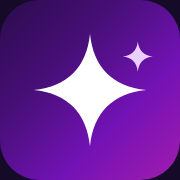
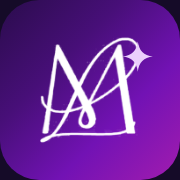
Studio: fotos e monograma originais nos lugares do Manual e do Guia
- Fotos extraídas do Manual original: capa (Manoella), boas-vindas,
  2 de alongamento, 2 de banho de gel e o mapa da localização
- Fotos de serviço com o recorte em folha do original, no site e no PDF
- Monograma ML do logo original no quadro da marca, nos PDFs e nos ícones
- PDFs resolvem imagens de public/ (navegador e testes); JPG no precache

Claude-Session: https://claude.ai/code/session_017yUxHj6sHtnoANT1YFCpkN

Changed region(s): [[0.1944, 0.1944, 0.8056, 0.8056]]

diff --git a/studio/src/pdf/base.tsx b/studio/src/pdf/base.tsx
@@ -24,6 +24,12 @@ const branco = bss.sobreMarca;
 const lilas = bss.sobreMarcaSuave;
 
 const A5: [number, number] = [419.53, 595.28];
+
+/** Imagens de public/: no navegador viram URL absoluta; nos testes, caminho no disco. */
+let resolver = (src: string) => src;
+export function definirOrigemImagens(fn: (src: string) => string) { resolver = fn; }
+
+type Cantos = { tl?: number; tr?: number; br?: number; bl?: number };
 const M = 34;
 
 const s = StyleSheet.create({
@@ -71,14 +77,16 @@ function Logo({ studio, claro, grande }: { studio: Studio; claro?: boolean; gran
     <View style={{ flexDirection: "row", alignItems: "center", gap: 10 }}>
       <View style={{ width: tam, height: tam, borderRadius: 12, overflow: "hidden", alignItems: "center", justifyContent: "center", borderWidth: 1, borderColor: lilas }}>
         <Degrade w={tam} h={tam} />
-        <Text style={{ fontFamily: bss.fontes.titulo, fontWeight: 800, fontSize: tam * 0.36, color: branco, letterSpacing: -0.5 }}>{studio.marca.monograma}</Text>
+        {studio.marca.simbolo
+          ? <Image src={resolver(studio.marca.simbolo.src)} style={{ width: tam * 0.72, height: tam * 0.72 }} />
+          : <Text style={{ fontFamily: bss.fontes.titulo, fontWeight: 800, fontSize: tam * 0.36, color: branco, letterSpacing: -0.5 }}>{studio.marca.monograma}</Text>}
       </View>
       <Text style={{ fontFamily: bss.fontes.assinatura, fontSize: grande ? 34 : 26, color: claro ? branco : c.primariaTexto }}>{studio.marca.nome.replace(/^Studio /, "")}</Text>
     </View>
   );
 }
 
-function FotoPdf({ src, placeholder, w, h }: { src: string; placeholder?: boolean; w: number; h: number }) {
+function FotoPdf({ src, placeholder, w, h, cantos }: { src: string; placeholder?: boolean; w: number; h: number; cantos?: Cantos }) {
   // SVG/placeholder não entram no PDF como imagem: vira um quadro marcado "Foto provisória".
   if (placeholder || src.endsWith(".svg"))
     return (
@@ -87,11 +95,24 @@ function FotoPdf({ src, placeholder, w, h }: { src: string; placeholder?: boolea
         <Text style={{ fontSize: 8, color: branco, opacity: 0.85 }}>Foto provisória</Text>
       </View>
     );
-  return <Image src={src} style={{ width: w, height: h, borderRadius: 12, objectFit: "cover" }} />;
+  const r = cantos
+    ? { borderTopLeftRadius: cantos.tl ?? 6, borderTopRightRadius: cantos.tr ?? 6, borderBottomRightRadius: cantos.br ?? 6, borderBottomLeftRadius: cantos.bl ?? 6 }
+    : { borderRadius: 12 };
+  return (
+    <View style={{ width: w, height: h, overflow: "hidden", ...r }}>
+      <Image src={resolver(src)} style={{ width: w, height: h, objectFit: "cover" }} />
+    </View>
+  );
 }
 
-function Mapa({ w }: { w: number }) {
+function Mapa({ w, src }: { w: number; src?: string }) {
   const r = w / 2;
+  if (src)
+    return (
+      <View style={{ width: w, height: w, borderRadius: r, borderWidth: 3, borderColor: lilas, overflow: "hidden" }}>
+        <Image src={resolver(src)} style={{ width: w - 6, height: w - 6, objectFit: "cover" }} />
+      </View>
+    );
   return (
     <Svg width={w} height={w}>
       <Circle cx={r} cy={r} r={r - 3} fill={branco} fillOpacity={0.13} stroke={branco} strokeOpacity={0.4} strokeWidth={3} />
@@ -140,7 +161,10 @@ function Blocos({ blocos, studio, sobreMarca }: { blocos: Bloco[]; studio: Studi
           );
           case "fotos": return (
             <View key={i} style={{ flexDirection: "row", gap: 10, marginTop: 6 }}>
-              {b.fotos.map((f) => <FotoPdf key={f.src} {...f} w={(A5[0] - 2 * M - 32 - 10) / 2} h={150} />)}
+              {b.fotos.map((f, n) => {
+                const w = (A5[0] - 2 * M - 32 - 10) / 2, raio = w * 0.3;
+                return <FotoPdf key={f.src} {...f} w={w} h={w * 6 / 7} cantos={n % 2 ? { tr: raio, bl: raio } : { tl: raio, br: raio }} />;
+              })}
             </View>
           );
           case "assinatura": return (
@@ -175,7 +199,7 @@ function Blocos({ blocos, studio, sobreMarca }: { blocos: Bloco[]; studio: Studi
             return (
               <View key={i} style={{ borderRadius: 14, overflow: "hidden", padding: 20, alignItems: "center", marginTop: 4 }}>
                 <Degrade w={w} h={330} raio={14} />
-                <Mapa w={150} />
+                <Mapa w={150} src={b.mapa?.src} />
                 <Text style={{ color: branco, fontWeight: 600, fontSize: 13, marginTop: 14, textAlign: "center" }}>
                   {`${e.linha.replace(", N ", " ")}${e.complemento ? `, ${e.complemento}` : ""} – ${e.bairro} – ${e.uf}`}
                 </Text>
@@ -219,6 +243,7 @@ function PaginaSecao({ secao, n, total, studio, doc }: { secao: SecaoDocumento; 
       <Text style={s.marcador}>{n} de {total}</Text>
       <Text style={s.titulo}>{secao.titulo}</Text>
       {secao.subtitulo && <Text style={s.subtitulo}>{secao.subtitulo}</Text>}
+      {secao.imagem && <View style={{ marginTop: 12 }}><FotoPdf {...secao.imagem} w={A5[0] - 2 * M} h={150} /></View>}
       <View style={s.cartao}><Blocos blocos={secao.blocos} studio={studio} /></View>
       {rodape}
     </Page>

diff --git a/studio/src/data/studio.ts b/studio/src/data/studio.ts
@@ -13,11 +13,11 @@ export const studio: Studio = {
     nome: "Studio Manoella Lopes",
     subtitulo: "Nail Designer | Especialista em Unhas",
     cidade: "Olaria – RJ",
-    // TODO: enviar o arquivo de logo (SVG) para public/brand/ e preencher aqui.
+    // Logo completo (nome desenhado) ainda não veio em arquivo: o nome segue na fonte de assinatura.
     logo: undefined,
     monograma: "ML",
-    // TODO: foto real da profissional.
-    foto: { src: "/img/placeholder-profissional.svg", alt: "Foto da profissional Manoella Lopes (provisória)", placeholder: true },
+    simbolo: { src: "/brand/monograma.png", alt: "Monograma ML do Studio Manoella Lopes" },
+    foto: { src: "/img/manoella-lopes.jpg", alt: "Manoella Lopes, nail designer" },
     // TODO: confirmar o texto e o link de créditos do rodapé.
     creditos: { texto: "Feito com BSS" },
   },
@@ -64,8 +64,7 @@ export const studio: Studio = {
     textoApoio: "Selecione abaixo qual serviço deseja realizar o agendamento",
     textoProfissional: "Selecione o profissional desejado para o agendamento",
     profissionais: [
-      // TODO: foto real da profissional para o avatar.
-      { id: PROFISSIONAL, nome: "Manoella Lopes" },
+      { id: PROFISSIONAL, nome: "Manoella Lopes", foto: { src: "/img/manoella-lopes.jpg", alt: "Manoella Lopes" } },
     ],
     servicos: [
       { id: "aplicacao", nome: "Aplicação", duracaoMin: 120, precoCentavos: 14000, profissionais: [PROFISSIONAL] },
@@ -103,11 +102,12 @@ export const studio: Studio = {
     secoes: [
       {
         id: "capa", estilo: "capa", titulo: "Manual de Agendamento", subtitulo: "Studio Manoella Lopes",
-        imagem: { src: "/img/placeholder-profissional.svg", alt: "Foto da profissional (provisória)", placeholder: true },
+        imagem: { src: "/img/manoella-lopes-capa.jpg", alt: "Manoella Lopes, nail designer do studio" },
         blocos: [{ tipo: "logo" }],
       },
       {
         id: "boas-vindas", titulo: "Boas-vindas",
+        imagem: { src: "/img/boas-vindas.jpg", alt: "Mãos aplicando óleo de cutícula com conta-gotas" },
         blocos: [
           { tipo: "paragrafo", texto: "Olá, eu sou a Manoella Lopes, Nail Designer Especialista, e preparei este manual de agendamento com muito carinho para facilitar a sua experiência comigo." },
           { tipo: "paragrafo", texto: "Aqui você vai encontrar todas as informações necessárias para agendar seu horário de forma prática, além de algumas orientações importantes para que o nosso atendimento seja ainda mais especial." },
@@ -126,10 +126,9 @@ export const studio: Studio = {
             "Pode incluir outros serviços como decoração (adicional)",
             "Manutenção até 30 dias",
           ] },
-          // TODO: 2 fotos reais do alongamento.
           { tipo: "fotos", fotos: [
-            { src: "/img/placeholder-unhas-1.svg", alt: "Alongamento de unhas — foto 1 (provisória)", placeholder: true },
-            { src: "/img/placeholder-unhas-2.svg", alt: "Alongamento de unhas — foto 2 (provisória)", placeholder: true },
+            { src: "/img/alongamento-1.jpg", alt: "Alongamento amendoado nude com flores brancas" },
+            { src: "/img/alongamento-2.jpg", alt: "Alongamento amendoado com francesinha branca" },
           ] },
         ],
       },
@@ -143,10 +142,9 @@ export const studio: Studio = {
             "Pode incluir decoração (adicional)",
             "Manutenção de 20 à 30 dias",
           ] },
-          // TODO: 2 fotos reais do banho de gel.
           { tipo: "fotos", fotos: [
-            { src: "/img/placeholder-unhas-3.svg", alt: "Banho de gel — foto 1 (provisória)", placeholder: true },
-            { src: "/img/placeholder-unhas-4.svg", alt: "Banho de gel — foto 2 (provisória)", placeholder: true },
+            { src: "/img/banho-de-gel-1.jpg", alt: "Banho de gel com francesinha cintilante" },
+            { src: "/img/banho-de-gel-2.jpg", alt: "Banho de gel vermelho" },
           ] },
         ],
       },
@@ -170,7 +168,7 @@ export const studio: Studio = {
           { tipo: "destaque", texto: "Para preservar a saúde da unha natural e evitar quebras/descolamentos do alongamento, é extremamente importante não passar do prazo de manutenção." },
         ],
       },
-      { id: "localizacao", titulo: "Localização", blocos: [{ tipo: "localizacao" }] },
+      { id: "localizacao", titulo: "Localização", blocos: [{ tipo: "localizacao", mapa: { src: "/img/mapa.jpg", alt: "Mapa da região da Rua Carlina, em Olaria" } }] },
     ],
   },
   guia: {

diff --git a/studio/src/components/ui/MapCard.tsx b/studio/src/components/ui/MapCard.tsx
@@ -1,15 +1,20 @@
 import { Icon } from "./Icon";
 import { ButtonA } from "./Button";
+import type { Imagem } from "@/data/types";
 
 /**
- * Localização: mapa ilustrado circular com pino (sem serviço de mapas embutido — o botão abre
+ * Localização: recorte do mapa (ou mapa ilustrado) circular com pino (sem serviço de mapas embutido — o botão abre
  * o Google Maps com o endereço). Fundo no degradê forte da marca.
  */
-export function MapCard({ endereco, complemento, referencia, consulta }: { endereco: string; complemento?: string; referencia?: string; consulta: string }) {
+export function MapCard({ endereco, complemento, referencia, consulta, mapa }: { endereco: string; complemento?: string; referencia?: string; consulta: string; mapa?: Imagem }) {
   const url = `https://www.google.com/maps/search/?api=1&query=${encodeURIComponent(consulta)}`;
   return (
     <div className="bg-marca relative overflow-hidden rounded-card p-5 text-sobre-marca shadow-card">
       <div className="flex flex-col items-center gap-4 text-center">
+        {mapa ? (
+          <img src={mapa.src} alt={mapa.alt} loading="lazy" decoding="async" width={160} height={160}
+            className="h-40 w-40 rounded-full object-cover ring-4 ring-sobre-marca/25 shadow-card" />
+        ) : (
         <span aria-hidden className="relative grid h-40 w-40 place-items-center overflow-hidden rounded-full bg-sobre-marca/10 ring-4 ring-sobre-marca/25">
           {/* ruas estilizadas */}
           <svg viewBox="0 0 160 160" className="absolute inset-0 h-full w-full text-sobre-marca/25" fill="none" stroke="currentColor" strokeWidth="6" strokeLinecap="round">
@@ -17,6 +22,7 @@ export function MapCard({ endereco, complemento, referencia, consulta }: { ender
           </svg>
           <Icon name="pino" className="relative h-14 w-14 -translate-y-2 text-sobre-marca drop-shadow-[0_6px_10px_rgb(0_0_0/0.35)]" />
         </span>
+        )}
         <div>
           <p className="text-md font-semibold">{endereco}{complemento ? `, ${complemento}` : ""}</p>
           {referencia && <p className="mt-1 text-sm text-sobre-marca-suave">({referencia})</p>}

diff --git a/studio/src/components/documento/Blocos.tsx b/studio/src/components/documento/Blocos.tsx
@@ -2,6 +2,7 @@ import { studio } from "@/data/studio";
 import type { Bloco } from "@/data/types";
 import { linkWhatsApp } from "@/services/booking";
 import { Foto, Logo } from "@/components/ui/Brand";
+import { cn } from "@/lib/cn";
 import { ButtonA } from "@/components/ui/Button";
 import { Icon } from "@/components/ui/Icon";
 import { MapCard } from "@/components/ui/MapCard";
@@ -65,7 +66,8 @@ function BlocoView({ b, sobreMarca }: { b: Bloco; sobreMarca?: boolean }) {
     case "fotos":
       return (
         <div className="grid grid-cols-2 gap-3">
-          {b.fotos.map((f) => <Foto key={f.src} {...f} className="aspect-[4/5] rounded-2xl" />)}
+          {/* Recorte em "folha" como no Manual original: cantos opostos bem arredondados, alternando. */}
+          {b.fotos.map((f, n) => <Foto key={f.src} {...f} className={cn("aspect-[7/6] rounded-lg ring-1 ring-borda", n % 2 ? "rounded-tr-[32%_37%] rounded-bl-[32%_37%]" : "rounded-tl-[32%_37%] rounded-br-[32%_37%]")} />)}
         </div>
       );
     case "assinatura":
@@ -79,7 +81,7 @@ function BlocoView({ b, sobreMarca }: { b: Bloco; sobreMarca?: boolean }) {
     case "localizacao": {
       const e = contato.endereco;
       return <MapCard endereco={`${e.linha.replace(", N ", " ")} – ${e.bairro} – ${e.uf}`} complemento={e.complemento} referencia={e.referencia}
-        consulta={`${e.linha}, ${e.bairro}, ${e.cidade} - ${e.uf}`} />;
+        consulta={`${e.linha}, ${e.bairro}, ${e.cidade} - ${e.uf}`} mapa={b.mapa} />;
     }
     case "logo":
       return <Logo tamanho="lg" claro={sobreMarca} className="mt-2" />;

diff --git a/studio/src/components/ui/Brand.tsx b/studio/src/components/ui/Brand.tsx
@@ -3,13 +3,15 @@ import { cn } from "@/lib/cn";
 
 /** Logo: arquivo do studio, se houver; senão monograma + nome na fonte de assinatura do BSS. */
 export function Logo({ tamanho = "md", claro, className }: { tamanho?: "sm" | "md" | "lg"; claro?: boolean; className?: string }) {
-  const { logo, nome, monograma } = studio.marca;
+  const { logo, nome, monograma, simbolo } = studio.marca;
   if (logo) return <img src={logo.src} alt={logo.alt} className={cn(tamanho === "lg" ? "h-24" : tamanho === "md" ? "h-12" : "h-9", "w-auto", className)} />;
   const box = tamanho === "lg" ? "h-16 w-16 text-[22px] sm:h-20 sm:w-20 sm:text-[28px]" : tamanho === "md" ? "h-12 w-12 text-[18px]" : "h-9 w-9 text-[13px]";
   return (
     <span className={cn("inline-flex items-center gap-3", className)}>
       <span aria-hidden className={cn("bg-marca grid shrink-0 place-items-center rounded-2xl font-titulo font-extrabold tracking-tight leading-none text-sobre-marca shadow-card ring-1 ring-sobre-marca/20", box)}>
-        {monograma}
+        {simbolo
+          ? <span className="h-[72%] w-[72%] bg-current" style={{ mask: `url(${simbolo.src}) center / contain no-repeat`, WebkitMask: `url(${simbolo.src}) center / contain no-repeat` }} />
+          : monograma}
       </span>
       <span className={cn("font-assinatura leading-none whitespace-nowrap", tamanho === "lg" ? "text-[36px] sm:text-[44px]" : tamanho === "md" ? "text-[30px]" : "text-[24px]", claro ? "text-sobre-marca" : "text-primaria-texto")}>{nome.replace(/^Studio /, "")}</span>
       <span className="sr-only">{nome}</span>

diff --git a/studio/src/pdf/gerar.ts b/studio/src/pdf/gerar.ts
@@ -5,13 +5,14 @@ import corpo400 from "@fontsource/dm-sans/files/dm-sans-latin-400-normal.woff?ur
 import corpo600 from "@fontsource/dm-sans/files/dm-sans-latin-600-normal.woff?url";
 import titulo800 from "@fontsource/inter-tight/files/inter-tight-latin-800-normal.woff?url";
 import assinatura from "@fontsource/allura/files/allura-latin-400-normal.woff?url";
-import { registrarFontes } from "./base";
+import { definirOrigemImagens, registrarFontes } from "./base";
 import { ManualPdf } from "./ManualPdf";
 import { GuiaPdf } from "./GuiaPdf";
 
 /** Gera o PDF no navegador (a partir de studio.ts) e baixa o arquivo. */
 export async function baixarPdf(tipo: "manual" | "guia", nomeArquivo: string) {
   registrarFontes({ corpo400, corpo600, titulo800, assinatura });
+  definirOrigemImagens((src) => new URL(src, window.location.origin).href);
   const el = tipo === "manual" ? createElement(ManualPdf, { studio }) : createElement(GuiaPdf, { studio });
   // @ts-expect-error — pdf() aceita o elemento <Document>; os tipos pedem ReactElement<DocumentProps>.
   const blob = await pdf(el).toBlob();

diff --git a/studio/src/pdf/pdf.test.tsx b/studio/src/pdf/pdf.test.tsx
@@ -2,9 +2,10 @@
 import { describe, expect, it } from "vitest";
 import { renderToBuffer } from "@react-pdf/renderer";
 import { createRequire } from "node:module";
+import { fileURLToPath } from "node:url";
 import { writeFileSync, mkdirSync } from "node:fs";
 import { studio } from "@/data/studio";
-import { registrarFontes } from "./base";
+import { definirOrigemImagens, registrarFontes } from "./base";
 import { ManualPdf } from "./ManualPdf";
 import { GuiaPdf } from "./GuiaPdf";
 
@@ -15,6 +16,8 @@ registrarFontes({
   titulo800: req.resolve("@fontsource/inter-tight/files/inter-tight-latin-800-normal.woff"),
   assinatura: req.resolve("@fontsource/allura/files/allura-latin-400-normal.woff"),
 });
+
+definirOrigemImagens((src) => fileURLToPath(new URL(`../../public${src}`, import.meta.url)));
 
 const paginas = (buf: Buffer) => (buf.toString("latin1").match(/\/Type\s*\/Page(?!s)/g) ?? []).length;
 const saida = process.env.PDF_OUT;

diff --git a/studio/vite.config.ts b/studio/vite.config.ts
@@ -84,7 +84,7 @@ export default defineConfig({
     VitePWA({
       registerType: "autoUpdate",
       injectRegister: false,
-      includeAssets: ["brand/icone.svg", "brand/apple-touch-icon.png", "img/*.svg"],
+      includeAssets: ["brand/icone.svg", "brand/apple-touch-icon.png"],
       manifest: {
         name: studio.marca.nome,
         short_name: studio.marca.nome.replace(/^Studio /, ""),
@@ -108,7 +108,7 @@ export default defineConfig({
       },
       workbox: {
         navigateFallback: "/index.html",
-        globPatterns: ["**/*.{js,css,html,svg,png,woff2}"],
+        globPatterns: ["**/*.{js,css,html,svg,png,jpg,woff2}"],
         // O gerador de PDF é grande e só é usado sob demanda: fica fora do pré-cache.
         globIgnores: ["**/gerar-*.js", "**/og.png", "**/*.woff"],
         runtimeCaching: [{ urlPattern: /\/assets\/gerar-.*\.js$/, handler: "CacheFirst", options: { cacheName: "pdf" } }],

diff --git a/studio/src/data/types.ts b/studio/src/data/types.ts
@@ -42,7 +42,8 @@ export type Bloco =
   | { tipo: "fotos"; fotos: Imagem[] }
   | { tipo: "assinatura"; despedida: string; nome: string }
   | { tipo: "valores" }
-  | { tipo: "localizacao" }
+  /** mapa: recorte do mapa no círculo (opcional; sem ele, mapa ilustrado). */
+  | { tipo: "localizacao"; mapa?: Imagem }
   | { tipo: "logo" };
 
 export type SecaoDocumento = {
@@ -70,6 +71,8 @@ export type Studio = {
     /** Sem arquivo de logo, o nome é exibido na fonte de assinatura do BSS. */
     logo?: Imagem;
     monograma: string;
+    /** Símbolo do logo (PNG branco com transparência) no lugar das letras do monograma. */
+    simbolo?: Imagem;
     foto: Imagem;
     creditos: { texto: string; url?: string };
   };

diff --git a/studio/README.md b/studio/README.md
@@ -32,8 +32,8 @@ npm run icons        # regera ícones do app e imagem de compartilhamento (preci
 - **Horários**: `faixas` com `dia` (0 = domingo … 6 = sábado), `abre` e `fecha` em `"HH:MM"`, no fuso `horarios.fuso`. O selo Aberto/Fechado usa sempre o fuso do studio, não o do aparelho.
 - **Mensagem do WhatsApp**: `agendamento.mensagemWhatsApp`, com `{servico}`, `{duracao}`, `{valor}` e `{profissional}`.
 - **Manual e Guia**: cada seção é uma página do PDF. Blocos disponíveis: `paragrafo`, `lista`, `topicos`, `destaque` (com `acao: "whatsapp"`), `dicas`, `fotos`, `assinatura`, `valores`, `localizacao`, `logo`. Se uma seção ficar longa demais para uma página, o teste `src/pdf/pdf.test.tsx` avisa (ele confere 7 e 4 páginas).
-- **Fotos**: coloque os arquivos em `public/img/` e troque o `src`; tire o `placeholder: true`. Fotos em JPG/PNG entram no PDF; as provisórias aparecem como quadro "Foto provisória".
-- **Logo**: sem arquivo, o site usa o monograma + o nome na fonte de assinatura do BSS. Com arquivo SVG em `public/brand/`, preencha `marca.logo`.
+- **Fotos**: ficam em `public/img/` (extraídas do Manual original: capa, boas-vindas, 2 de alongamento, 2 de banho de gel e o mapa). Para trocar, substitua o arquivo ou o `src`. Use JPG/PNG (entram no PDF); uma foto com `placeholder: true` aparece marcada como "Foto provisória". As fotos de um bloco `fotos` ganham o recorte em "folha" do Manual original, alternando os cantos.
+- **Logo**: o símbolo ML do logo original está em `public/brand/monograma.png` (branco com transparência, em `marca.simbolo`) e aparece no quadro do monograma, no site, nos PDFs e no ícone do app (`npm run icons` regenera os ícones a partir de `public/brand/icone.svg`). O nome segue na fonte de assinatura; com o logo completo em arquivo, preencha `marca.logo`.
 - **SEO**: `seo` define título e descrição de cada rota (vão para o HTML estático e para o preview do link).
 
 Depois de editar: `npm test` confere se o conteúdo continua coerente, e `npm run icons` atualiza a imagem de compartilhamento.
